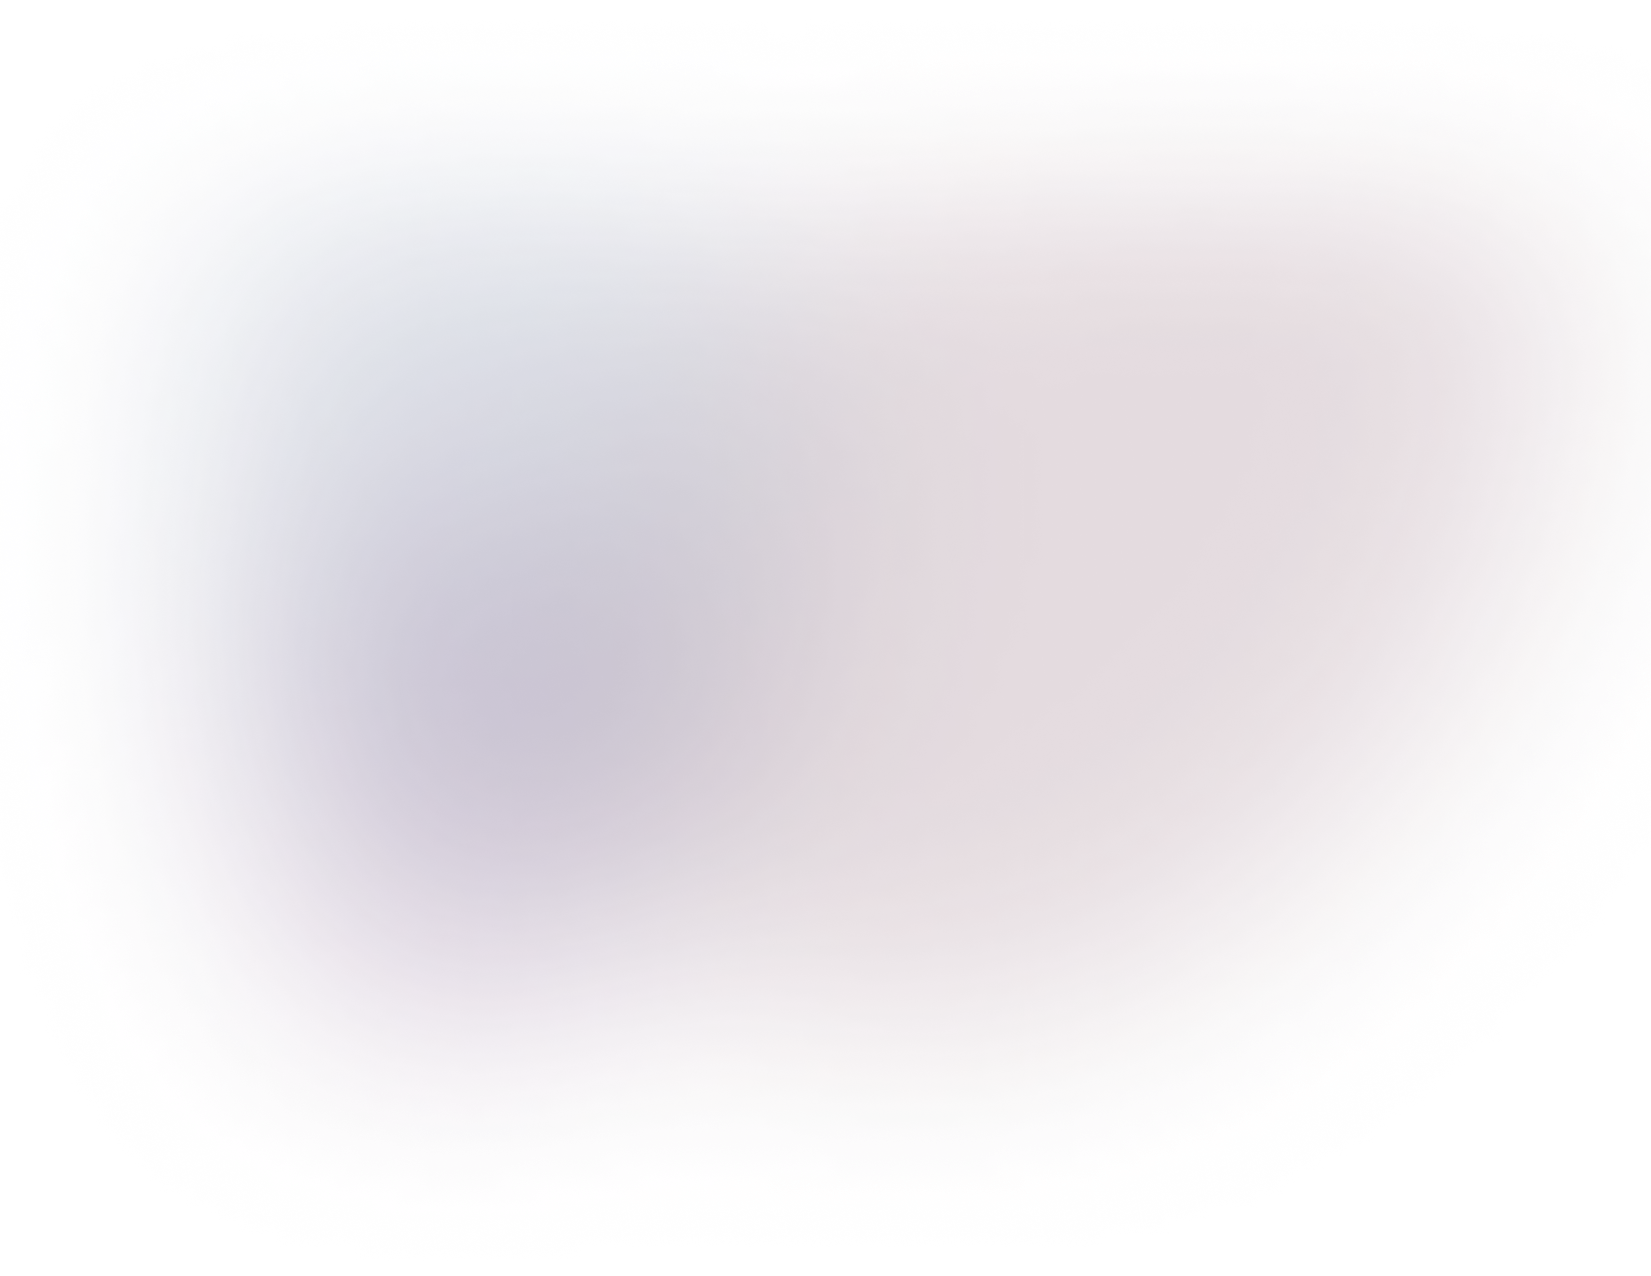
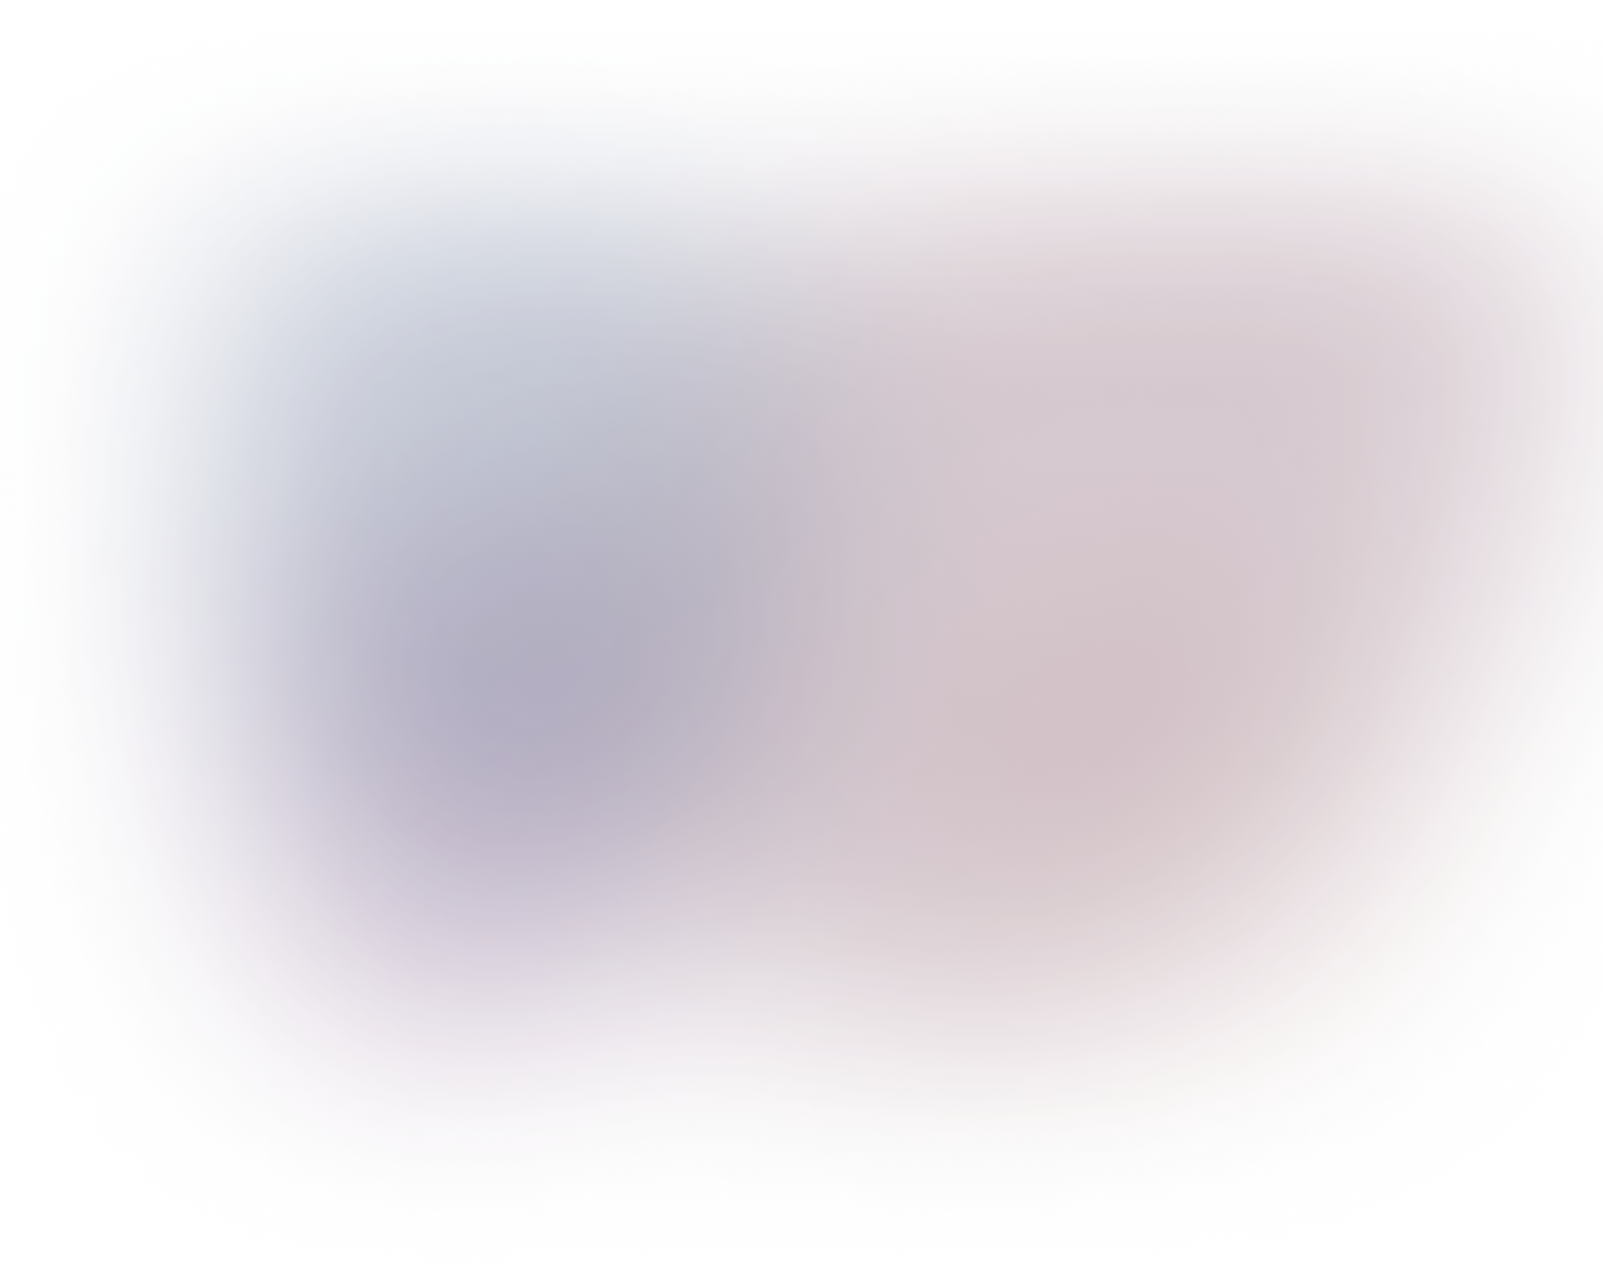
commit twenty-five

Changed region(s): [[0.6238, 0.489, 0.811, 0.6724], [0.3119, 0.4279, 0.4679, 0.5502]]

diff --git a/src/app/main.css b/src/app/main.css
@@ -312,6 +312,8 @@
 .main__work__bg {
   position: absolute;
   z-index: -1;
+  /* width: 2200px;
+  height: 1900px; */
 }
 
 .questions__section {
@@ -426,6 +428,11 @@
     background-position: center;
     background-size: cover;
   }
+
+  .main__work__bg {
+    width: 3000px;
+    height: 1550px;
+  } 
 
 }
 
@@ -557,8 +564,8 @@
   }
 
   .main__work__bg {
-    width: 1800px;
-    height: 1200px;
+    width: 2500px;
+    height: 1500px;
   }
 
   .how_we_work__section {
@@ -765,6 +772,11 @@
     margin-top: 250px;
     margin-bottom: 180px;
     gap: 50px;
+  }
+
+  .main__work__bg {
+    width: 2500px;
+    height: 1200px;
   }
 }
 
@@ -1046,7 +1058,7 @@
   }
 
   .main__work__div {
-    padding: 20px 50px;
+    padding: 20px 40px;
   }
 
   .questions__title {
@@ -1088,8 +1100,8 @@
   .main__work__bg {
     position: absolute;
     z-index: -1;
-    height: 205%;
-    width: 1000px;
+    height: 1900px;
+    width: 2500px;
   }
 
   .questions__section {
@@ -1320,7 +1332,7 @@
   }
 
   .main__work__div {
-    padding: 20px 35px;
+    padding: 20px 25px;
   }
 
   .work__email__div {
@@ -1360,5 +1372,10 @@
 
   .rights__span {
     font-size: 11px;
+  }
+
+  .main__work__bg {
+    width: 2500px;
+    height: 1850px;
   }
 }

diff --git a/src/app/components/Process.js b/src/app/components/Process.js
@@ -1,5 +1,5 @@
 "use client"
-import BgEllipse from "../assets/Ellipse 5.png";
+import BgEllipse from "../assets/Ellipse5.png";
 import Image from "next/image"
 import Link from "next/link"
 import Translator from "./Translator";
